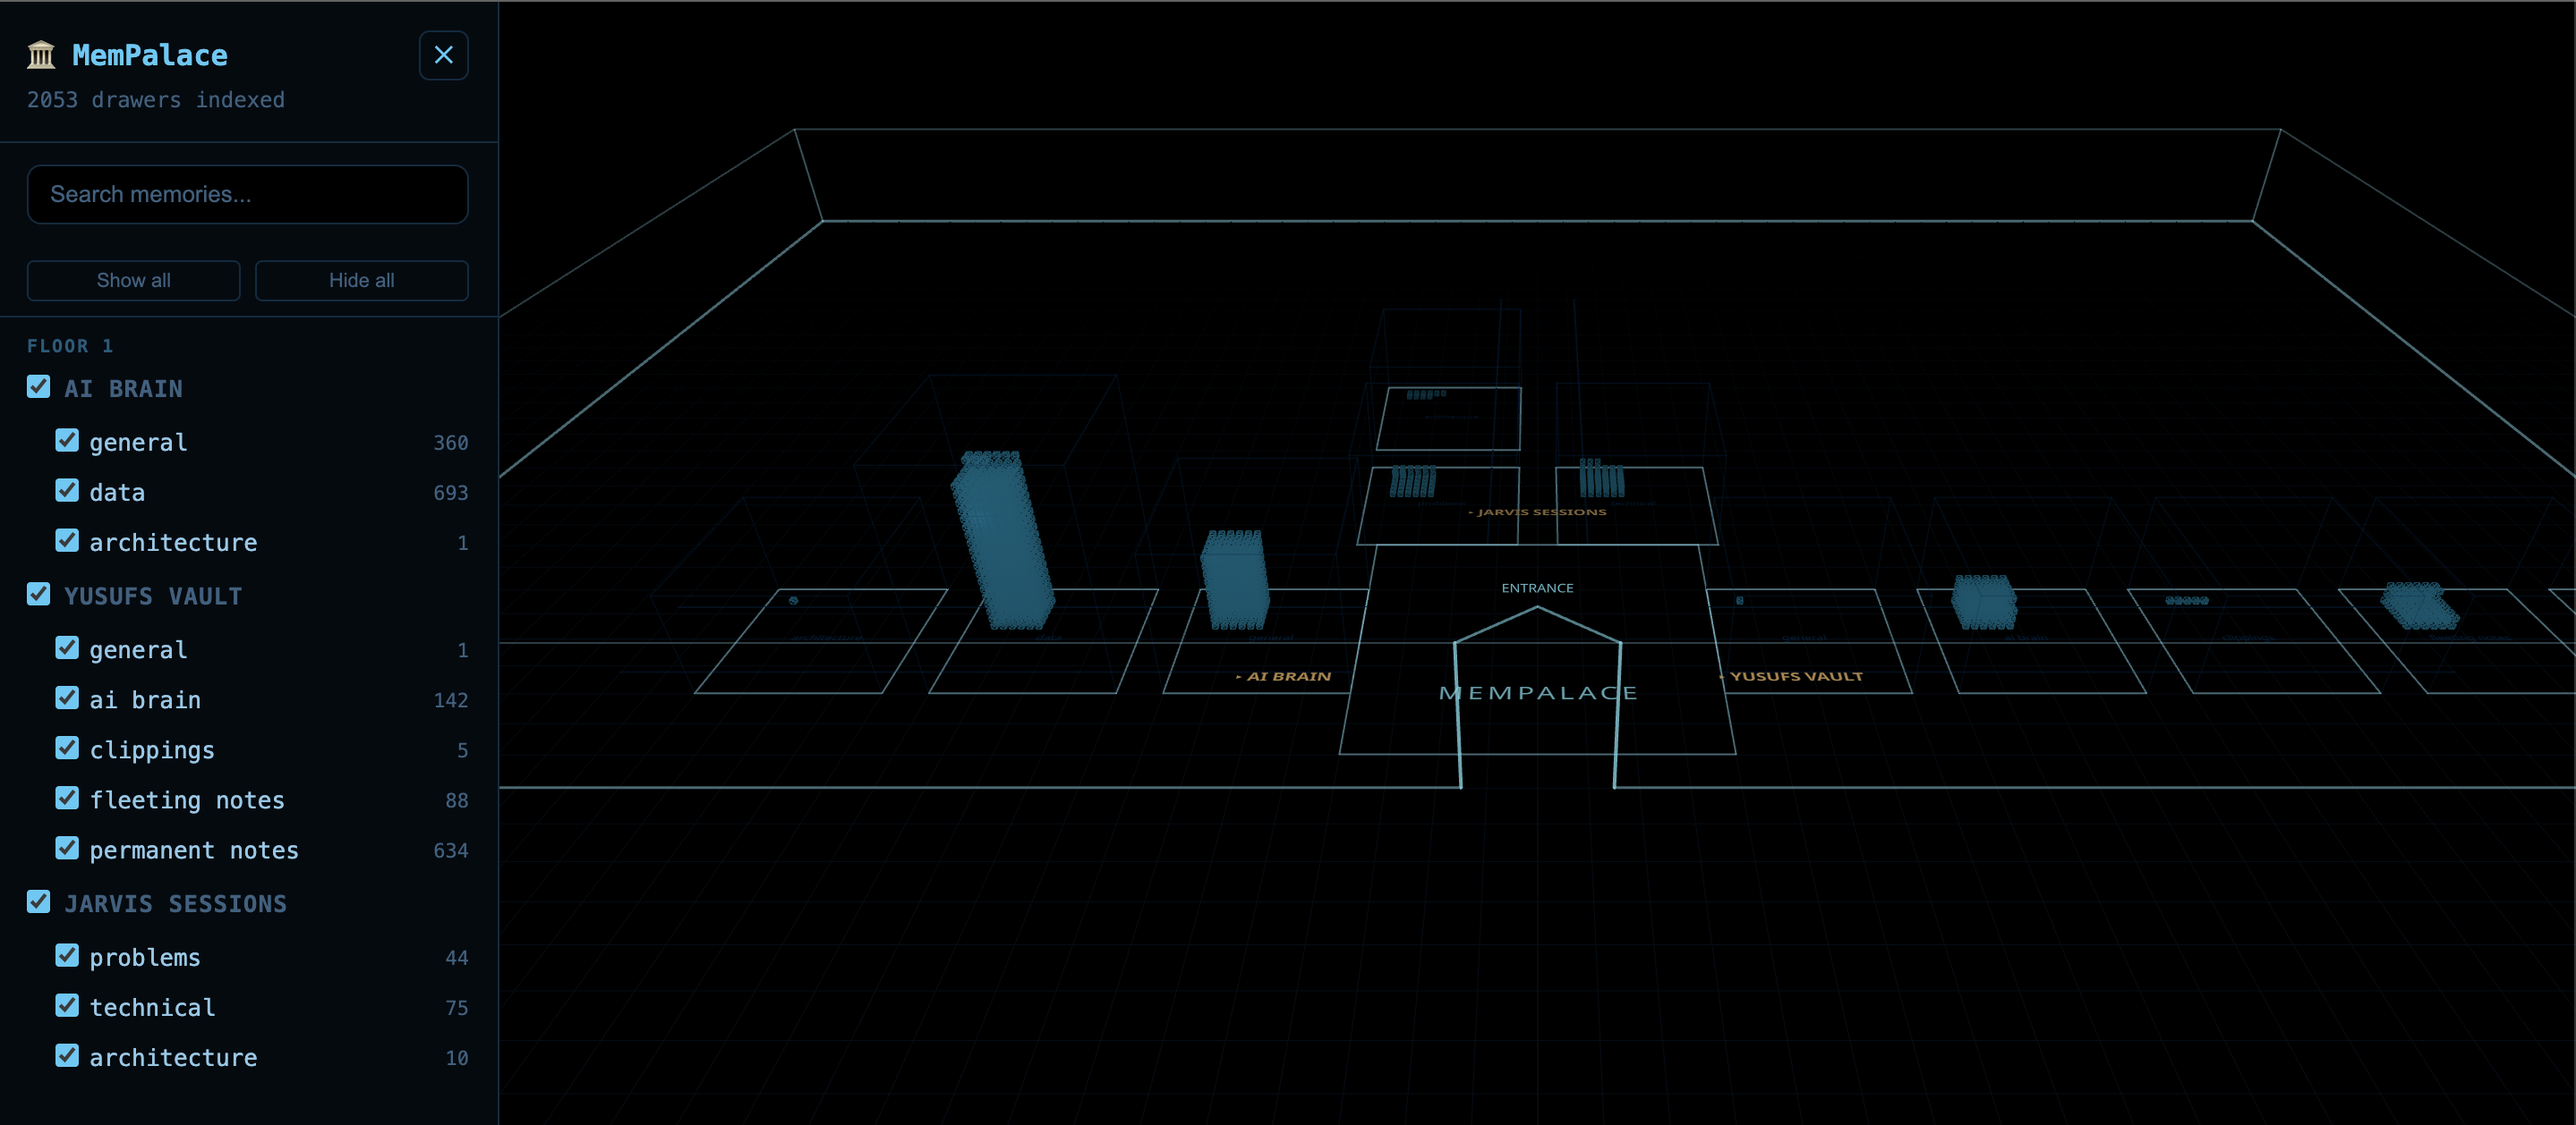
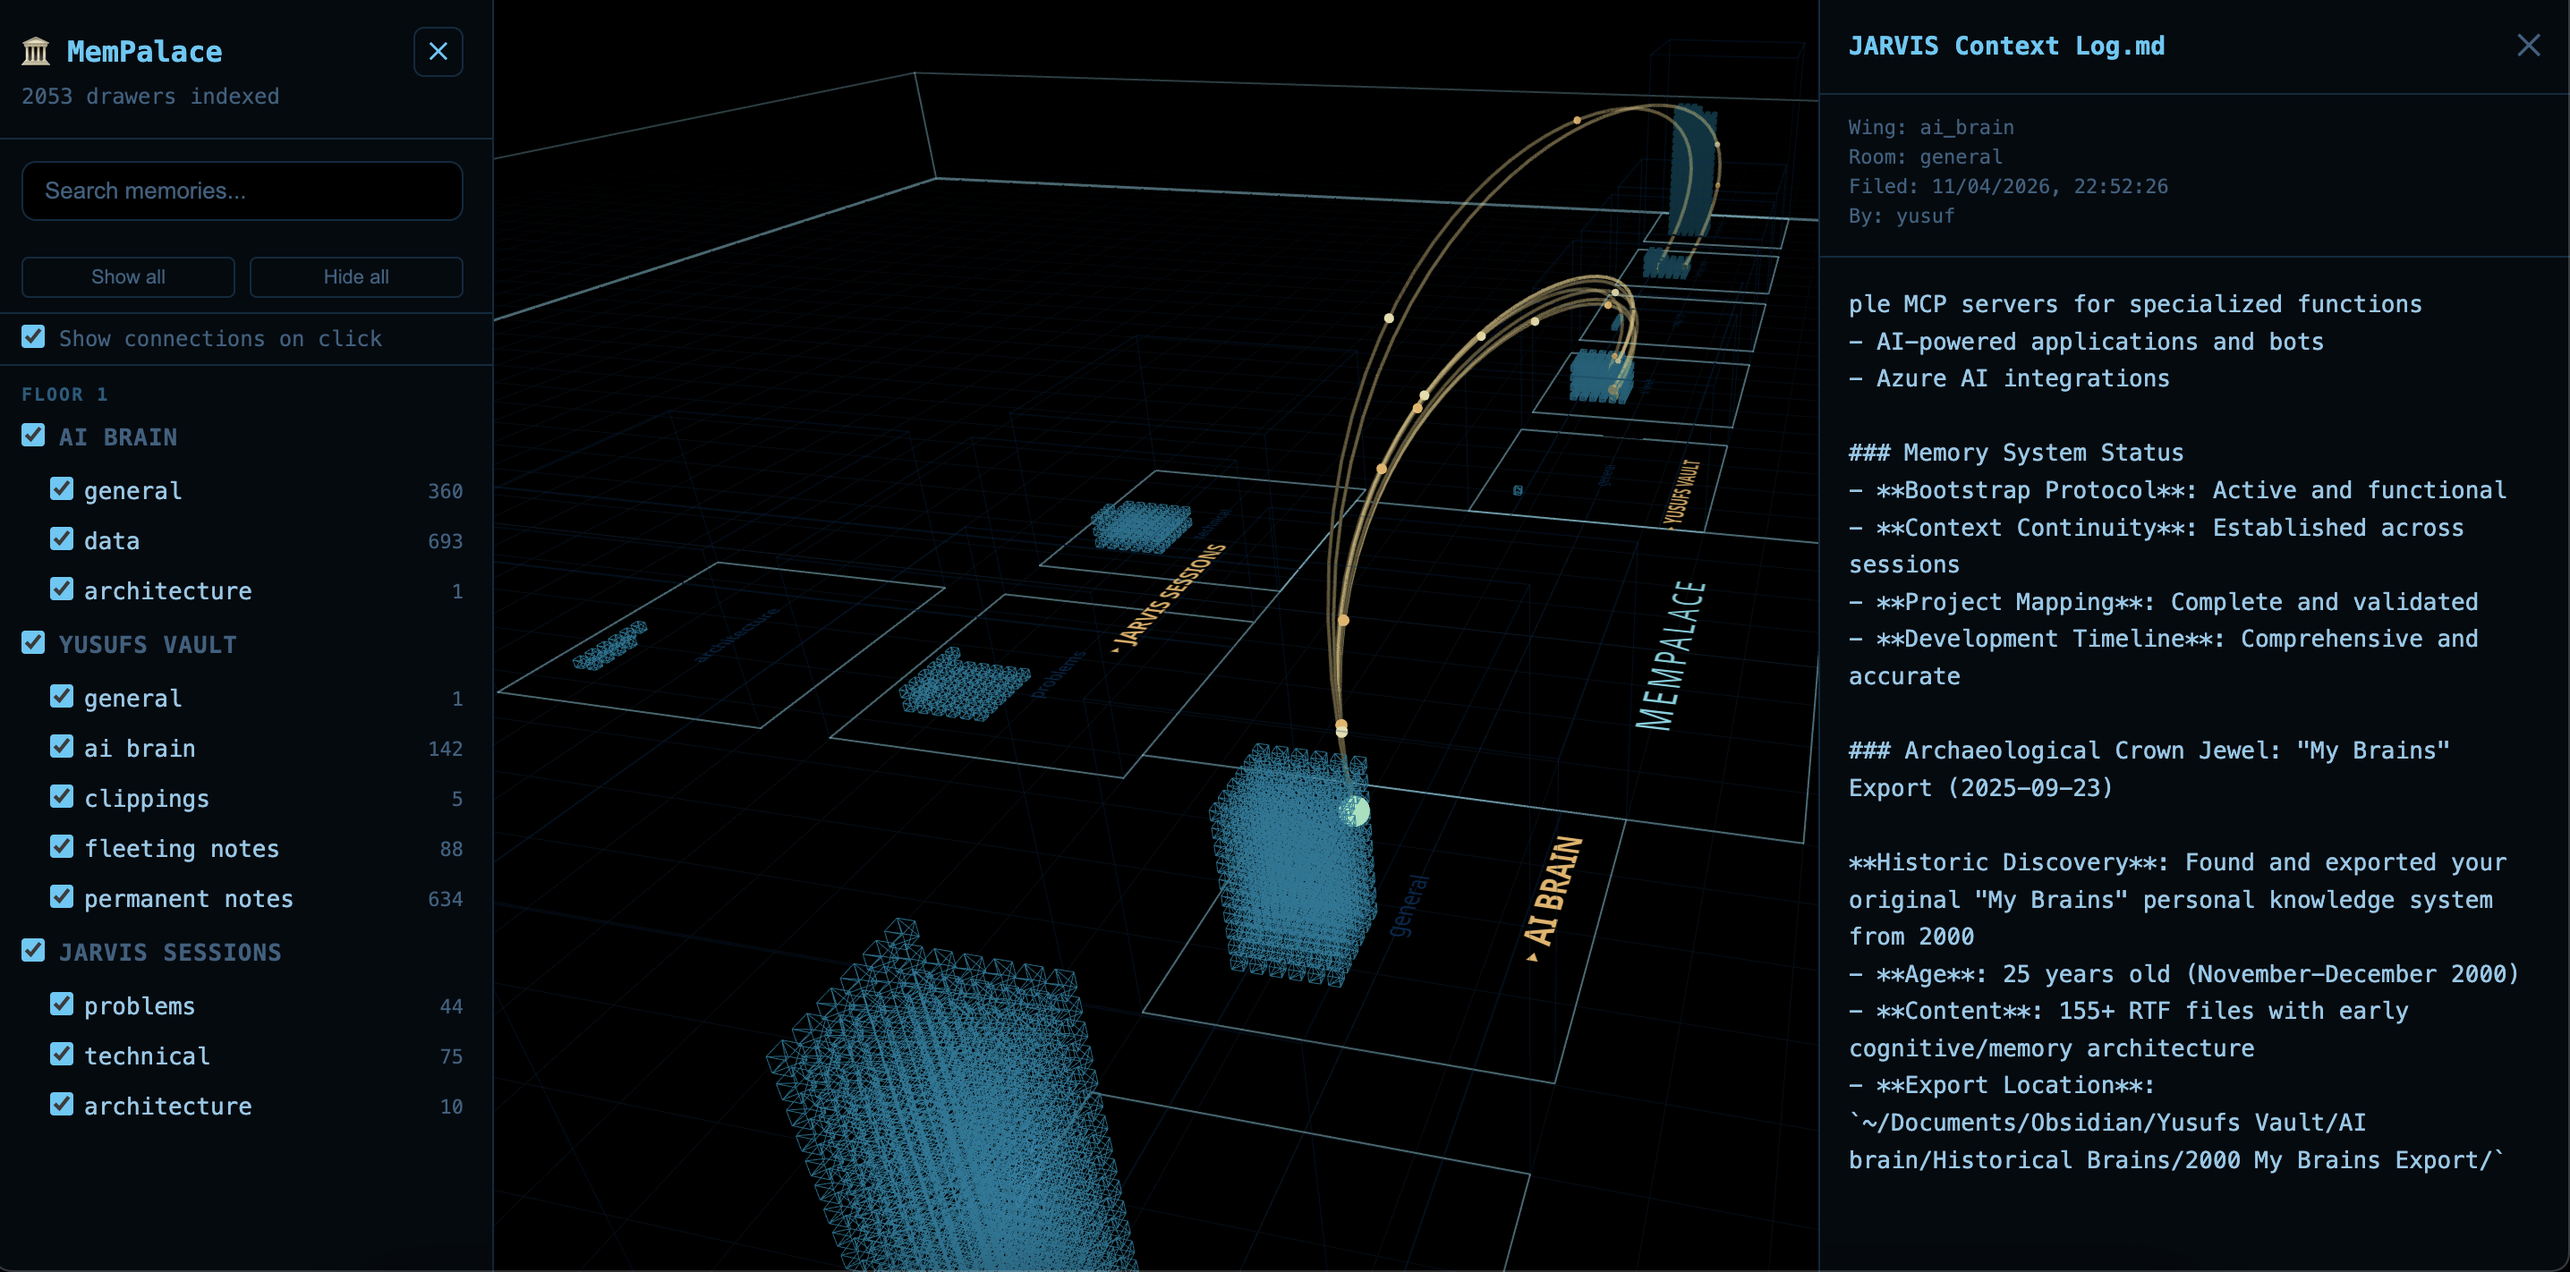
Replace green dot with glowing source drawer, update screenshot

diff --git a/src/components/PalaceView.jsx b/src/components/PalaceView.jsx
@@ -111,7 +111,7 @@ function RoomBox({ pos, w, d, h = 3, y = 0, label }) {
   )
 }
 
-function DrawerWall({ drawers, position, onDrawerClick, isSearch }) {
+function DrawerWall({ drawers, position, onDrawerClick, isSearch, activeId }) {
   const sp = 0.2
   const maxCols = 6   // X axis
   const maxRows = 6   // Z axis (depth — shelves)
@@ -123,21 +123,22 @@ function DrawerWall({ drawers, position, onDrawerClick, isSearch }) {
         const inLayer = i % perLayer
         const col = inLayer % maxCols
         const row = Math.floor(inLayer / maxCols)
-        return <DrawerCube key={d.id} position={[col * sp, layer * sp, row * sp]} drawer={d} onClick={onDrawerClick} isSearch={isSearch} />
+        return <DrawerCube key={d.id} position={[col * sp, layer * sp, row * sp]} drawer={d} onClick={onDrawerClick} isSearch={isSearch} activeId={activeId} />
       })}
     </group>
   )
 }
 
-function DrawerCube({ position, drawer, onClick, isSearch }) {
+function DrawerCube({ position, drawer, onClick, isSearch, activeId }) {
   const ref = useRef()
   const [hovered, setHovered] = useState(false)
-  const color = isSearch ? '#4df6a6' : B
+  const isActive = drawer.id === activeId
+  const color = isActive ? '#4df6a6' : isSearch ? '#4df6a6' : B
   useFrame(() => {
     if (!ref.current) return
-    const s = hovered ? 1.5 : 1
+    const s = hovered ? 1.5 : isActive ? 1.8 : 1
     ref.current.scale.lerp(new THREE.Vector3(s, s, s), 0.15)
-    ref.current.material.emissiveIntensity = THREE.MathUtils.lerp(ref.current.material.emissiveIntensity, hovered ? 1.5 : 0.25, 0.1)
+    ref.current.material.emissiveIntensity = THREE.MathUtils.lerp(ref.current.material.emissiveIntensity, isActive ? 2.5 : hovered ? 1.5 : 0.25, 0.1)
   })
   return (
     <mesh ref={ref} position={position} onClick={e => { e.stopPropagation(); onClick(drawer) }} onPointerOver={() => setHovered(true)} onPointerOut={() => setHovered(false)}>
@@ -148,7 +149,7 @@ function DrawerCube({ position, drawer, onClick, isSearch }) {
 }
 
 /* ── Floor: foyer + hallways + wings + palace outline ── */
-function Floor({ floorIndex, wings, grouped, onDrawerClick, isSearch, totalFloors }) {
+function Floor({ floorIndex, wings, grouped, onDrawerClick, isSearch, totalFloors, activeId }) {
   const y = floorIndex * FLOOR_H
 
   // Calculate palace extents based on rooms
@@ -238,7 +239,7 @@ function Floor({ floorIndex, wings, grouped, onDrawerClick, isSearch, totalFloor
           return (
             <group key={`${wing.name}/${room}`}>
               <RoomBox pos={[x, z]} w={4} d={4} h={h} y={y} label={room} />
-              <DrawerWall drawers={rd} position={[x - 1.3, y + 0.15, z - 1.3]} onDrawerClick={onDrawerClick} isSearch={isSearch} />
+              <DrawerWall drawers={rd} position={[x - 1.3, y + 0.15, z - 1.3]} onDrawerClick={onDrawerClick} isSearch={isSearch} activeId={activeId} />
             </group>
           )
         })
@@ -322,11 +323,7 @@ function ConnectionLines({ connections, drawerPositions }) {
           </group>
         )
       })}
-      {/* Source node - green pulse */}
-      <mesh position={srcPos}>
-        <sphereGeometry args={[0.15]} />
-        <meshBasicMaterial color="#4df6a6" />
-      </mesh>
+      {/* Source node removed — drawer itself glows */}
     </group>
   )
 }
@@ -384,7 +381,7 @@ function MansionScene({ structure, drawers, onDrawerClick, connections }) {
       <fog attach="fog" args={['#000000', 15, 60]} />
 
       {floors.map((wings, fi) => (
-        <Floor key={fi} floorIndex={fi} wings={wings} grouped={grouped} onDrawerClick={onDrawerClick} isSearch={isSearch} totalFloors={floors.length} />
+        <Floor key={fi} floorIndex={fi} wings={wings} grouped={grouped} onDrawerClick={onDrawerClick} isSearch={isSearch} totalFloors={floors.length} activeId={connections?.source?.id} />
       ))}
 
       <gridHelper args={[80, 80, '#071828', '#040e18']} position={[0, -0.02, 0]} />
